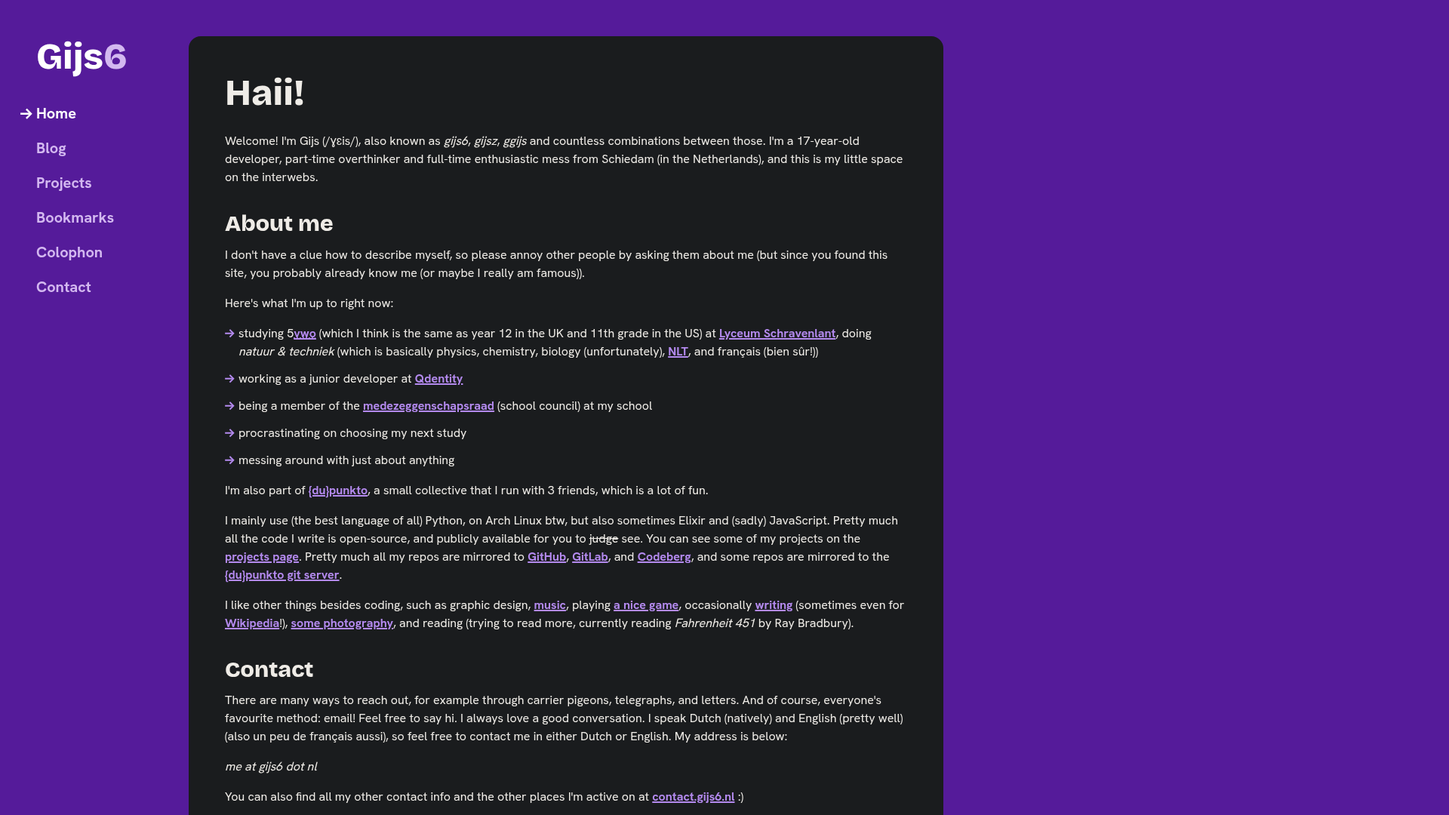
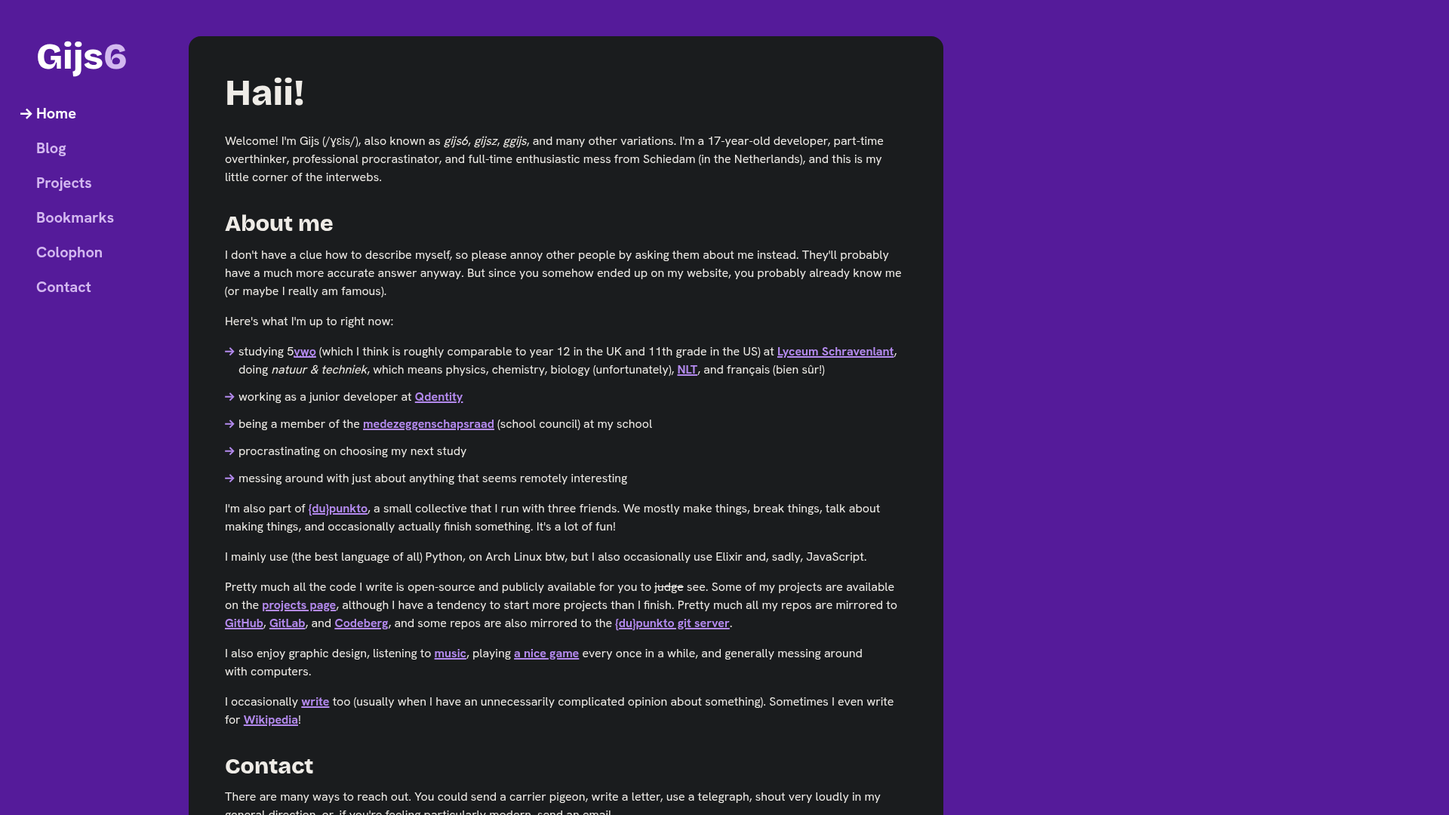
Update v4

diff --git a/site/versions/v4/index.html b/site/versions/v4/index.html
@@ -58,45 +58,54 @@
         </header>
         <main class="page">
             <h1>Haii!</h1>
-            <p>Welcome! I'm Gijs (<span lang="nl">/ɣɛis/</span>), also known as <i>gijs6</i>, <i>gijsz</i>, <i>ggijs</i> and countless combinations between those. I'm a 17-year-old developer, part-time overthinker and full-time enthusiastic mess from Schiedam (in the Netherlands), and this is my little space on the interwebs.</p>
+            <p>Welcome! I'm Gijs (<span lang="nl">/ɣɛis/</span>), also known as <i>gijs6</i>, <i>gijsz</i>, <i>ggijs</i>, and many other variations. I'm a 17-year-old developer, part-time overthinker, professional procrastinator, and full-time enthusiastic mess from Schiedam (in the Netherlands), and this is my little corner of the interwebs.</p>
+
             <section aria-labelledby="about-heading">
                 <h2 id="about-heading">About me</h2>
-                <p>I don't have a clue how to describe myself, so please annoy other people by asking them about me (but since you found this site, you probably already know me (or maybe I really am famous)).</p>
+                <p>I don't have a clue how to describe myself, so please annoy other people by asking them about me instead. They'll probably have a much more accurate answer anyway. But since you somehow ended up on my website, you probably already know me (or maybe I really am famous).</p>
                 <p>Here's what I'm up to right now:</p>
+
                 <ul>
                     <li>
                         studying
                         <span lang="nl"
                             >5<a href="https://en.wikipedia.org/wiki/Voorbereidend_wetenschappelijk_onderwijs"><abbr title="voorbereidend wetenschappelijk onderwijs">vwo</abbr></a></span
                         >
-                        (which I think is the same as year 12 in the UK and 11th grade in the US) at <a href="https://www.lyceumschravenlant.nl/" hreflang="nl">Lyceum Schravenlant</a>, doing <i lang="nl">natuur & techniek</i> (which is basically physics, chemistry, biology (unfortunately), <a href="https://nl.wikipedia.org/wiki/Natuur,_leven_en_technologie" hreflang="nl" lang="nl">NLT</a>, and <span lang="fr">français (bien sûr!)</span>)
+                        (which I think is roughly comparable to year 12 in the UK and 11th grade in the US) at <a href="https://www.lyceumschravenlant.nl/" hreflang="nl">Lyceum Schravenlant</a>, doing <i lang="nl">natuur & techniek</i>, which means physics, chemistry, biology (unfortunately), <a href="https://nl.wikipedia.org/wiki/Natuur,_leven_en_technologie" hreflang="nl" lang="nl">NLT</a>, and <span lang="fr">français (bien sûr!)</span>
                     </li>
                     <li>working as a junior developer at <a href="https://qdentity.com">Qdentity</a></li>
                     <li>being a member of the <a href="https://nl.wikipedia.org/wiki/Medezeggenschap" hreflang="nl" lang="nl">medezeggenschapsraad</a> (school council) at my school</li>
                     <li>procrastinating on choosing my next study</li>
-                    <li>messing around with just about anything</li>
+                    <li>messing around with just about anything that seems remotely interesting</li>
                 </ul>
-                <p>I'm also part of <a href="https://dupunkto.org/">{du}punkto</a>, a small collective that I run with 3 friends, which is a lot of fun.</p>
-                <p>I mainly use (the best language of all) Python, on Arch Linux btw, but also sometimes Elixir and (sadly) JavaScript. Pretty much all the code I write is open-source, and publicly available for you to <s>judge</s> see. You can see some of my projects on the <a href="/versions/v4/projects">projects page</a>. Pretty much all my repos are mirrored to <a href="https://github.com/Gijs6">GitHub</a>, <a href="https://gitlab.com/ggijs">GitLab</a>, and <a href="https://codeberg.org/Gijs6">Codeberg</a>, and some repos are mirrored to the <a href="https://git.dupunkto.org">{du}punkto git server</a>.</p>
-                <p>I like other things besides coding, such as graphic design, <a href="https://open.spotify.com/playlist/37i9dQZF1EpfNaZch4604X">music</a>, playing <a href="https://steamcommunity.com/id/Gijs6/">a nice game</a>, occasionally <a href="/versions/v4/blog/">writing</a> (sometimes even for <a href="https://nl.wikipedia.org/wiki/Gebruiker:Gijsz">Wikipedia</a>!), <a href="https://api.gijs6.nl/random-image">some photography</a>, and reading (trying to read more, currently reading <cite>Fahrenheit 451</cite> by Ray Bradbury).</p>
+
+                <p>I'm also part of <a href="https://dupunkto.org/">{du}punkto</a>, a small collective that I run with three friends. We mostly make things, break things, talk about making things, and occasionally actually finish something. It's a lot of fun!</p>
+
+                <p>I mainly use (the best language of all) Python, on Arch Linux btw, but I also occasionally use Elixir and, sadly, JavaScript.</p>
+                <p>Pretty much all the code I write is open-source and publicly available for you to <s>judge</s> see. Some of my projects are available on the <a href="/versions/v4/projects">projects page</a>, although I have a tendency to start more projects than I finish. Pretty much all my repos are mirrored to <a href="https://github.com/Gijs6">GitHub</a>, <a href="https://gitlab.com/ggijs">GitLab</a>, and <a href="https://codeberg.org/Gijs6">Codeberg</a>, and some repos are also mirrored to the <a href="https://git.dupunkto.org">{du}punkto git server</a>.</p>
+
+                <p>I also enjoy graphic design, listening to <a href="https://open.spotify.com/playlist/37i9dQZF1EpfNaZch4604X">music</a>, playing <a href="https://steamcommunity.com/id/Gijs6/">a nice game</a> every once in a while, and generally messing around with computers.</p>
+                <p>I occasionally <a href="/versions/v4/blog/">write</a> too (usually when I have an unnecessarily complicated opinion about something). Sometimes I even write for <a href="https://nl.wikipedia.org/wiki/Gebruiker:Gijsz">Wikipedia</a>!</p>
             </section>
+
             <section aria-labelledby="contact-heading">
                 <h2 id="contact-heading">Contact</h2>
-                <p>There are many ways to reach out, for example through carrier pigeons, telegraphs, and letters. And of course, everyone's favourite method: email! Feel free to say hi. I always love a good conversation. I speak Dutch (natively) and English (pretty well) (also <span lang="fr">un peu de français aussi</span>), so feel free to contact me in either Dutch or English. My address is below:</p>
+                <p>There are many ways to reach out. You could send a carrier pigeon, write a letter, use a telegraph, shout very loudly in my general direction, or, if you're feeling particularly modern, send an email.</p>
+                <p>Feel free to say hi. I always love a good conversation. I speak Dutch (natively) and English (pretty well), so both are fine. My address is below:</p>
                 <address>me at gijs6 dot nl</address>
-                <p>You can also find all my other contact info and the other places I'm active on at <a href="https://contact.gijs6.nl">contact.gijs6.nl</a> :)</p>
+                <p>You can also find contact information at <a href="https://contact.gijs6.nl">contact.gijs6.nl</a> :)</p>
             </section>
         </main>
         <footer class="footer">
             <address class="footer__line">Made by <a href="https://contact.gijs6.nl">Gijs ten Berg</a></address>
             <p class="footer__line"><a href="https://unlicense.org/">No rights reserved</a>: copy it, change it, do something with it, make something cool :)</p>
             <p class="footer__line">
-                Built from commit <a href="https://github.com/Gijs6/gijs6.nl/commit/c00cf89eb200bbcc2171273ab7f4714d87be59b3"><code>c00cf89</code></a
-                >, deployed on <time datetime="2026-08-09T16:47:04.675525+02:00">9 August 2026 at 16:47:04 CEST</time>
+                Built from commit <a href="https://github.com/Gijs6/gijs6.nl/commit/c23d7ead07c869188a82b8d15346e49b485e7c86"><code>c23d7ea</code></a
+                >, deployed on <time datetime="2026-08-11T11:41:24.040500+02:00">11 August 2026 at 11:41:24 CEST</time>
             </p>
 
             <p class="footer__line">
-                <a href="https://github.com/Gijs6/gijs6.nl/blob/c00cf89eb200bbcc2171273ab7f4714d87be59b3/site/index.html">View this page's source <span aria-hidden="true">↗</span></a>
+                <a href="https://github.com/Gijs6/gijs6.nl/blob/c23d7ead07c869188a82b8d15346e49b485e7c86/site/index.html">View this page's source <span aria-hidden="true">↗</span></a>
             </p>
         </footer>
     </body>

diff --git a/site/versions/v4/assets/styles/main.min.css b/site/versions/v4/assets/styles/main.min.css
@@ -305,52 +305,6 @@ textarea:not([rows]) {
         --color-card-accent: var(--color-purple-light);
     }
 }
-html {
-    font-size: max(0.9rem, min(0.75rem + 0.35vw, 1rem));
-}
-a {
-    color: currentColor;
-    font-weight: var(--font-weight-bold);
-}
-::-moz-selection {
-    background-color: var(--color-card-accent);
-    color: var(--color-card-bg);
-}
-::selection {
-    background-color: var(--color-card-accent);
-    color: var(--color-card-bg);
-}
-.sidebar ::-moz-selection {
-    background-color: var(--color-body-fg);
-    color: var(--color-body-bg);
-}
-.sidebar ::selection {
-    background-color: var(--color-body-fg);
-    color: var(--color-body-bg);
-}
-.footer ::-moz-selection {
-    background-color: var(--color-body-fg);
-    color: var(--color-body-bg);
-}
-.footer ::selection {
-    background-color: var(--color-body-fg);
-    color: var(--color-body-bg);
-}
-:focus-visible {
-    outline: 2px solid var(--color-card-accent);
-    outline-offset: 2px;
-}
-.sidebar :focus-visible {
-    outline-color: var(--color-body-fg);
-}
-.footer :focus-visible {
-    outline-color: var(--color-body-fg);
-}
-code,
-pre,
-samp {
-    font-family: var(--font-mono);
-}
 body {
     font-family: var(--font-body);
     line-height: var(--line-height-body);
@@ -358,6 +312,31 @@ body {
     color: var(--color-card-fg);
     grid-template: "sidebar main" 1fr "sidebar footer" / auto 1fr;
     display: grid;
+}
+body a {
+    color: currentColor;
+    font-weight: var(--font-weight-bold);
+}
+body ::-moz-selection {
+    background-color: var(--color-card-accent);
+    color: var(--color-card-bg);
+}
+body ::selection {
+    background-color: var(--color-card-accent);
+    color: var(--color-card-bg);
+}
+body :focus-visible {
+    outline: 2px solid var(--color-card-accent);
+    outline-offset: 2px;
+}
+body code {
+    font-family: var(--font-mono);
+}
+body pre {
+    font-family: var(--font-mono);
+}
+body samp {
+    font-family: var(--font-mono);
 }
 @media (max-width: 750px) {
     body {
@@ -377,6 +356,17 @@ body > .sidebar {
     top: 0;
     overflow-x: hidden;
     overflow-y: auto;
+}
+body > .sidebar ::-moz-selection {
+    background-color: var(--color-body-fg);
+    color: var(--color-body-bg);
+}
+body > .sidebar ::selection {
+    background-color: var(--color-body-fg);
+    color: var(--color-body-bg);
+}
+body > .sidebar :focus-visible {
+    outline-color: var(--color-body-fg);
 }
 @media (max-width: 750px) {
     body > .sidebar {
@@ -817,6 +807,17 @@ body > .footer:-moz-any(:lang(ae), :lang(ar), :lang(arc), :lang(bcc), :lang(bqi)
 }
 body > .footer:is(:lang(ae), :lang(ar), :lang(arc), :lang(bcc), :lang(bqi), :lang(ckb), :lang(dv), :lang(fa), :lang(glk), :lang(he), :lang(ku), :lang(mzn), :lang(nqo), :lang(pnb), :lang(ps), :lang(sd), :lang(ug), :lang(ur), :lang(yi)) {
     padding-right: var(--layout-space-start);
+}
+body > .footer ::-moz-selection {
+    background-color: var(--color-body-fg);
+    color: var(--color-body-bg);
+}
+body > .footer ::selection {
+    background-color: var(--color-body-fg);
+    color: var(--color-body-bg);
+}
+body > .footer :focus-visible {
+    outline-color: var(--color-body-fg);
 }
 body > .footer > .footer__line {
     font-style: normal;

diff --git a/site/versions/v4/blog/ruining-an-election-system.html b/site/versions/v4/blog/ruining-an-election-system.html
@@ -86,12 +86,12 @@
             <address class="footer__line">Made by <a href="https://contact.gijs6.nl">Gijs ten Berg</a></address>
             <p class="footer__line"><a href="https://unlicense.org/">No rights reserved</a>: copy it, change it, do something with it, make something cool :)</p>
             <p class="footer__line">
-                Built from commit <a href="https://github.com/Gijs6/gijs6.nl/commit/c00cf89eb200bbcc2171273ab7f4714d87be59b3"><code>c00cf89</code></a
-                >, deployed on <time datetime="2026-08-09T16:47:04.675525+02:00">9 August 2026 at 16:47:04 CEST</time>
+                Built from commit <a href="https://github.com/Gijs6/gijs6.nl/commit/c23d7ead07c869188a82b8d15346e49b485e7c86"><code>c23d7ea</code></a
+                >, deployed on <time datetime="2026-08-11T11:41:24.040500+02:00">11 August 2026 at 11:41:24 CEST</time>
             </p>
 
             <p class="footer__line">
-                <a href="https://github.com/Gijs6/gijs6.nl/blob/c00cf89eb200bbcc2171273ab7f4714d87be59b3/site/blog/ruining-an-election-system.md">View this page's source <span aria-hidden="true">↗</span></a>
+                <a href="https://github.com/Gijs6/gijs6.nl/blob/c23d7ead07c869188a82b8d15346e49b485e7c86/site/blog/ruining-an-election-system.md">View this page's source <span aria-hidden="true">↗</span></a>
             </p>
         </footer>
     </body>

diff --git a/site/versions/v4/blog/ai-made-education-worse.html b/site/versions/v4/blog/ai-made-education-worse.html
@@ -79,12 +79,12 @@
             <address class="footer__line">Made by <a href="https://contact.gijs6.nl">Gijs ten Berg</a></address>
             <p class="footer__line"><a href="https://unlicense.org/">No rights reserved</a>: copy it, change it, do something with it, make something cool :)</p>
             <p class="footer__line">
-                Built from commit <a href="https://github.com/Gijs6/gijs6.nl/commit/c00cf89eb200bbcc2171273ab7f4714d87be59b3"><code>c00cf89</code></a
-                >, deployed on <time datetime="2026-08-09T16:47:04.675525+02:00">9 August 2026 at 16:47:04 CEST</time>
+                Built from commit <a href="https://github.com/Gijs6/gijs6.nl/commit/c23d7ead07c869188a82b8d15346e49b485e7c86"><code>c23d7ea</code></a
+                >, deployed on <time datetime="2026-08-11T11:41:24.040500+02:00">11 August 2026 at 11:41:24 CEST</time>
             </p>
 
             <p class="footer__line">
-                <a href="https://github.com/Gijs6/gijs6.nl/blob/c00cf89eb200bbcc2171273ab7f4714d87be59b3/site/blog/ai-made-education-worse.md">View this page's source <span aria-hidden="true">↗</span></a>
+                <a href="https://github.com/Gijs6/gijs6.nl/blob/c23d7ead07c869188a82b8d15346e49b485e7c86/site/blog/ai-made-education-worse.md">View this page's source <span aria-hidden="true">↗</span></a>
             </p>
         </footer>
     </body>

diff --git a/site/versions/v4/blog/internalized-compliance.html b/site/versions/v4/blog/internalized-compliance.html
@@ -77,12 +77,12 @@
             <address class="footer__line">Made by <a href="https://contact.gijs6.nl">Gijs ten Berg</a></address>
             <p class="footer__line"><a href="https://unlicense.org/">No rights reserved</a>: copy it, change it, do something with it, make something cool :)</p>
             <p class="footer__line">
-                Built from commit <a href="https://github.com/Gijs6/gijs6.nl/commit/c00cf89eb200bbcc2171273ab7f4714d87be59b3"><code>c00cf89</code></a
-                >, deployed on <time datetime="2026-08-09T16:47:04.675525+02:00">9 August 2026 at 16:47:04 CEST</time>
+                Built from commit <a href="https://github.com/Gijs6/gijs6.nl/commit/c23d7ead07c869188a82b8d15346e49b485e7c86"><code>c23d7ea</code></a
+                >, deployed on <time datetime="2026-08-11T11:41:24.040500+02:00">11 August 2026 at 11:41:24 CEST</time>
             </p>
 
             <p class="footer__line">
-                <a href="https://github.com/Gijs6/gijs6.nl/blob/c00cf89eb200bbcc2171273ab7f4714d87be59b3/site/blog/internalized-compliance.md">View this page's source <span aria-hidden="true">↗</span></a>
+                <a href="https://github.com/Gijs6/gijs6.nl/blob/c23d7ead07c869188a82b8d15346e49b485e7c86/site/blog/internalized-compliance.md">View this page's source <span aria-hidden="true">↗</span></a>
             </p>
         </footer>
     </body>

diff --git a/site/versions/v4/blog/banknote-redesign.html b/site/versions/v4/blog/banknote-redesign.html
@@ -607,12 +607,12 @@
             <address class="footer__line">Made by <a href="https://contact.gijs6.nl">Gijs ten Berg</a></address>
             <p class="footer__line"><a href="https://unlicense.org/">No rights reserved</a>: copy it, change it, do something with it, make something cool :)</p>
             <p class="footer__line">
-                Built from commit <a href="https://github.com/Gijs6/gijs6.nl/commit/c00cf89eb200bbcc2171273ab7f4714d87be59b3"><code>c00cf89</code></a
-                >, deployed on <time datetime="2026-08-09T16:47:04.675525+02:00">9 August 2026 at 16:47:04 CEST</time>
+                Built from commit <a href="https://github.com/Gijs6/gijs6.nl/commit/c23d7ead07c869188a82b8d15346e49b485e7c86"><code>c23d7ea</code></a
+                >, deployed on <time datetime="2026-08-11T11:41:24.040500+02:00">11 August 2026 at 11:41:24 CEST</time>
             </p>
 
             <p class="footer__line">
-                <a href="https://github.com/Gijs6/gijs6.nl/blob/c00cf89eb200bbcc2171273ab7f4714d87be59b3/site/blog/banknote-redesign.md">View this page's source <span aria-hidden="true">↗</span></a>
+                <a href="https://github.com/Gijs6/gijs6.nl/blob/c23d7ead07c869188a82b8d15346e49b485e7c86/site/blog/banknote-redesign.md">View this page's source <span aria-hidden="true">↗</span></a>
             </p>
         </footer>
     </body>

diff --git a/site/versions/v4/blog/index.html b/site/versions/v4/blog/index.html
@@ -157,12 +157,12 @@
             <address class="footer__line">Made by <a href="https://contact.gijs6.nl">Gijs ten Berg</a></address>
             <p class="footer__line"><a href="https://unlicense.org/">No rights reserved</a>: copy it, change it, do something with it, make something cool :)</p>
             <p class="footer__line">
-                Built from commit <a href="https://github.com/Gijs6/gijs6.nl/commit/c00cf89eb200bbcc2171273ab7f4714d87be59b3"><code>c00cf89</code></a
-                >, deployed on <time datetime="2026-08-09T16:47:04.675525+02:00">9 August 2026 at 16:47:04 CEST</time>
+                Built from commit <a href="https://github.com/Gijs6/gijs6.nl/commit/c23d7ead07c869188a82b8d15346e49b485e7c86"><code>c23d7ea</code></a
+                >, deployed on <time datetime="2026-08-11T11:41:24.040500+02:00">11 August 2026 at 11:41:24 CEST</time>
             </p>
 
             <p class="footer__line">
-                <a href="https://github.com/Gijs6/gijs6.nl/blob/c00cf89eb200bbcc2171273ab7f4714d87be59b3/site/templates/blog_index.html">View this page's source <span aria-hidden="true">↗</span></a>
+                <a href="https://github.com/Gijs6/gijs6.nl/blob/c23d7ead07c869188a82b8d15346e49b485e7c86/site/templates/blog_index.html">View this page's source <span aria-hidden="true">↗</span></a>
             </p>
         </footer>
     </body>

diff --git a/site/versions/v4/blog/new-exam-design.html b/site/versions/v4/blog/new-exam-design.html
@@ -122,12 +122,12 @@
             <address class="footer__line">Made by <a href="https://contact.gijs6.nl">Gijs ten Berg</a></address>
             <p class="footer__line"><a href="https://unlicense.org/">No rights reserved</a>: copy it, change it, do something with it, make something cool :)</p>
             <p class="footer__line">
-                Built from commit <a href="https://github.com/Gijs6/gijs6.nl/commit/c00cf89eb200bbcc2171273ab7f4714d87be59b3"><code>c00cf89</code></a
-                >, deployed on <time datetime="2026-08-09T16:47:04.675525+02:00">9 August 2026 at 16:47:04 CEST</time>
+                Built from commit <a href="https://github.com/Gijs6/gijs6.nl/commit/c23d7ead07c869188a82b8d15346e49b485e7c86"><code>c23d7ea</code></a
+                >, deployed on <time datetime="2026-08-11T11:41:24.040500+02:00">11 August 2026 at 11:41:24 CEST</time>
             </p>
 
             <p class="footer__line">
-                <a href="https://github.com/Gijs6/gijs6.nl/blob/c00cf89eb200bbcc2171273ab7f4714d87be59b3/site/blog/new-exam-design.md">View this page's source <span aria-hidden="true">↗</span></a>
+                <a href="https://github.com/Gijs6/gijs6.nl/blob/c23d7ead07c869188a82b8d15346e49b485e7c86/site/blog/new-exam-design.md">View this page's source <span aria-hidden="true">↗</span></a>
             </p>
         </footer>
     </body>

diff --git a/site/versions/v4/blog/dear-boomers.html b/site/versions/v4/blog/dear-boomers.html
@@ -84,12 +84,12 @@
             <address class="footer__line">Made by <a href="https://contact.gijs6.nl">Gijs ten Berg</a></address>
             <p class="footer__line"><a href="https://unlicense.org/">No rights reserved</a>: copy it, change it, do something with it, make something cool :)</p>
             <p class="footer__line">
-                Built from commit <a href="https://github.com/Gijs6/gijs6.nl/commit/c00cf89eb200bbcc2171273ab7f4714d87be59b3"><code>c00cf89</code></a
-                >, deployed on <time datetime="2026-08-09T16:47:04.675525+02:00">9 August 2026 at 16:47:04 CEST</time>
+                Built from commit <a href="https://github.com/Gijs6/gijs6.nl/commit/c23d7ead07c869188a82b8d15346e49b485e7c86"><code>c23d7ea</code></a
+                >, deployed on <time datetime="2026-08-11T11:41:24.040500+02:00">11 August 2026 at 11:41:24 CEST</time>
             </p>
 
             <p class="footer__line">
-                <a href="https://github.com/Gijs6/gijs6.nl/blob/c00cf89eb200bbcc2171273ab7f4714d87be59b3/site/blog/dear-boomers.md">View this page's source <span aria-hidden="true">↗</span></a>
+                <a href="https://github.com/Gijs6/gijs6.nl/blob/c23d7ead07c869188a82b8d15346e49b485e7c86/site/blog/dear-boomers.md">View this page's source <span aria-hidden="true">↗</span></a>
             </p>
         </footer>
     </body>

diff --git a/site/versions/v4/blog/exam-design.html b/site/versions/v4/blog/exam-design.html
@@ -136,12 +136,12 @@
             <address class="footer__line">Made by <a href="https://contact.gijs6.nl">Gijs ten Berg</a></address>
             <p class="footer__line"><a href="https://unlicense.org/">No rights reserved</a>: copy it, change it, do something with it, make something cool :)</p>
             <p class="footer__line">
-                Built from commit <a href="https://github.com/Gijs6/gijs6.nl/commit/c00cf89eb200bbcc2171273ab7f4714d87be59b3"><code>c00cf89</code></a
-                >, deployed on <time datetime="2026-08-09T16:47:04.675525+02:00">9 August 2026 at 16:47:04 CEST</time>
+                Built from commit <a href="https://github.com/Gijs6/gijs6.nl/commit/c23d7ead07c869188a82b8d15346e49b485e7c86"><code>c23d7ea</code></a
+                >, deployed on <time datetime="2026-08-11T11:41:24.040500+02:00">11 August 2026 at 11:41:24 CEST</time>
             </p>
 
             <p class="footer__line">
-                <a href="https://github.com/Gijs6/gijs6.nl/blob/c00cf89eb200bbcc2171273ab7f4714d87be59b3/site/blog/exam-design.md">View this page's source <span aria-hidden="true">↗</span></a>
+                <a href="https://github.com/Gijs6/gijs6.nl/blob/c23d7ead07c869188a82b8d15346e49b485e7c86/site/blog/exam-design.md">View this page's source <span aria-hidden="true">↗</span></a>
             </p>
         </footer>
     </body>

diff --git a/site/versions/v4/blog/introduction.html b/site/versions/v4/blog/introduction.html
@@ -86,12 +86,12 @@
             <address class="footer__line">Made by <a href="https://contact.gijs6.nl">Gijs ten Berg</a></address>
             <p class="footer__line"><a href="https://unlicense.org/">No rights reserved</a>: copy it, change it, do something with it, make something cool :)</p>
             <p class="footer__line">
-                Built from commit <a href="https://github.com/Gijs6/gijs6.nl/commit/c00cf89eb200bbcc2171273ab7f4714d87be59b3"><code>c00cf89</code></a
-                >, deployed on <time datetime="2026-08-09T16:47:04.675525+02:00">9 August 2026 at 16:47:04 CEST</time>
+                Built from commit <a href="https://github.com/Gijs6/gijs6.nl/commit/c23d7ead07c869188a82b8d15346e49b485e7c86"><code>c23d7ea</code></a
+                >, deployed on <time datetime="2026-08-11T11:41:24.040500+02:00">11 August 2026 at 11:41:24 CEST</time>
             </p>
 
             <p class="footer__line">
-                <a href="https://github.com/Gijs6/gijs6.nl/blob/c00cf89eb200bbcc2171273ab7f4714d87be59b3/site/blog/introduction.md">View this page's source <span aria-hidden="true">↗</span></a>
+                <a href="https://github.com/Gijs6/gijs6.nl/blob/c23d7ead07c869188a82b8d15346e49b485e7c86/site/blog/introduction.md">View this page's source <span aria-hidden="true">↗</span></a>
             </p>
         </footer>
     </body>

diff --git a/site/versions/v4/blog/inheritance.html b/site/versions/v4/blog/inheritance.html
@@ -84,12 +84,12 @@
             <address class="footer__line">Made by <a href="https://contact.gijs6.nl">Gijs ten Berg</a></address>
             <p class="footer__line"><a href="https://unlicense.org/">No rights reserved</a>: copy it, change it, do something with it, make something cool :)</p>
             <p class="footer__line">
-                Built from commit <a href="https://github.com/Gijs6/gijs6.nl/commit/c00cf89eb200bbcc2171273ab7f4714d87be59b3"><code>c00cf89</code></a
-                >, deployed on <time datetime="2026-08-09T16:47:04.675525+02:00">9 August 2026 at 16:47:04 CEST</time>
+                Built from commit <a href="https://github.com/Gijs6/gijs6.nl/commit/c23d7ead07c869188a82b8d15346e49b485e7c86"><code>c23d7ea</code></a
+                >, deployed on <time datetime="2026-08-11T11:41:24.040500+02:00">11 August 2026 at 11:41:24 CEST</time>
             </p>
 
             <p class="footer__line">
-                <a href="https://github.com/Gijs6/gijs6.nl/blob/c00cf89eb200bbcc2171273ab7f4714d87be59b3/site/blog/inheritance.md">View this page's source <span aria-hidden="true">↗</span></a>
+                <a href="https://github.com/Gijs6/gijs6.nl/blob/c23d7ead07c869188a82b8d15346e49b485e7c86/site/blog/inheritance.md">View this page's source <span aria-hidden="true">↗</span></a>
             </p>
         </footer>
     </body>
